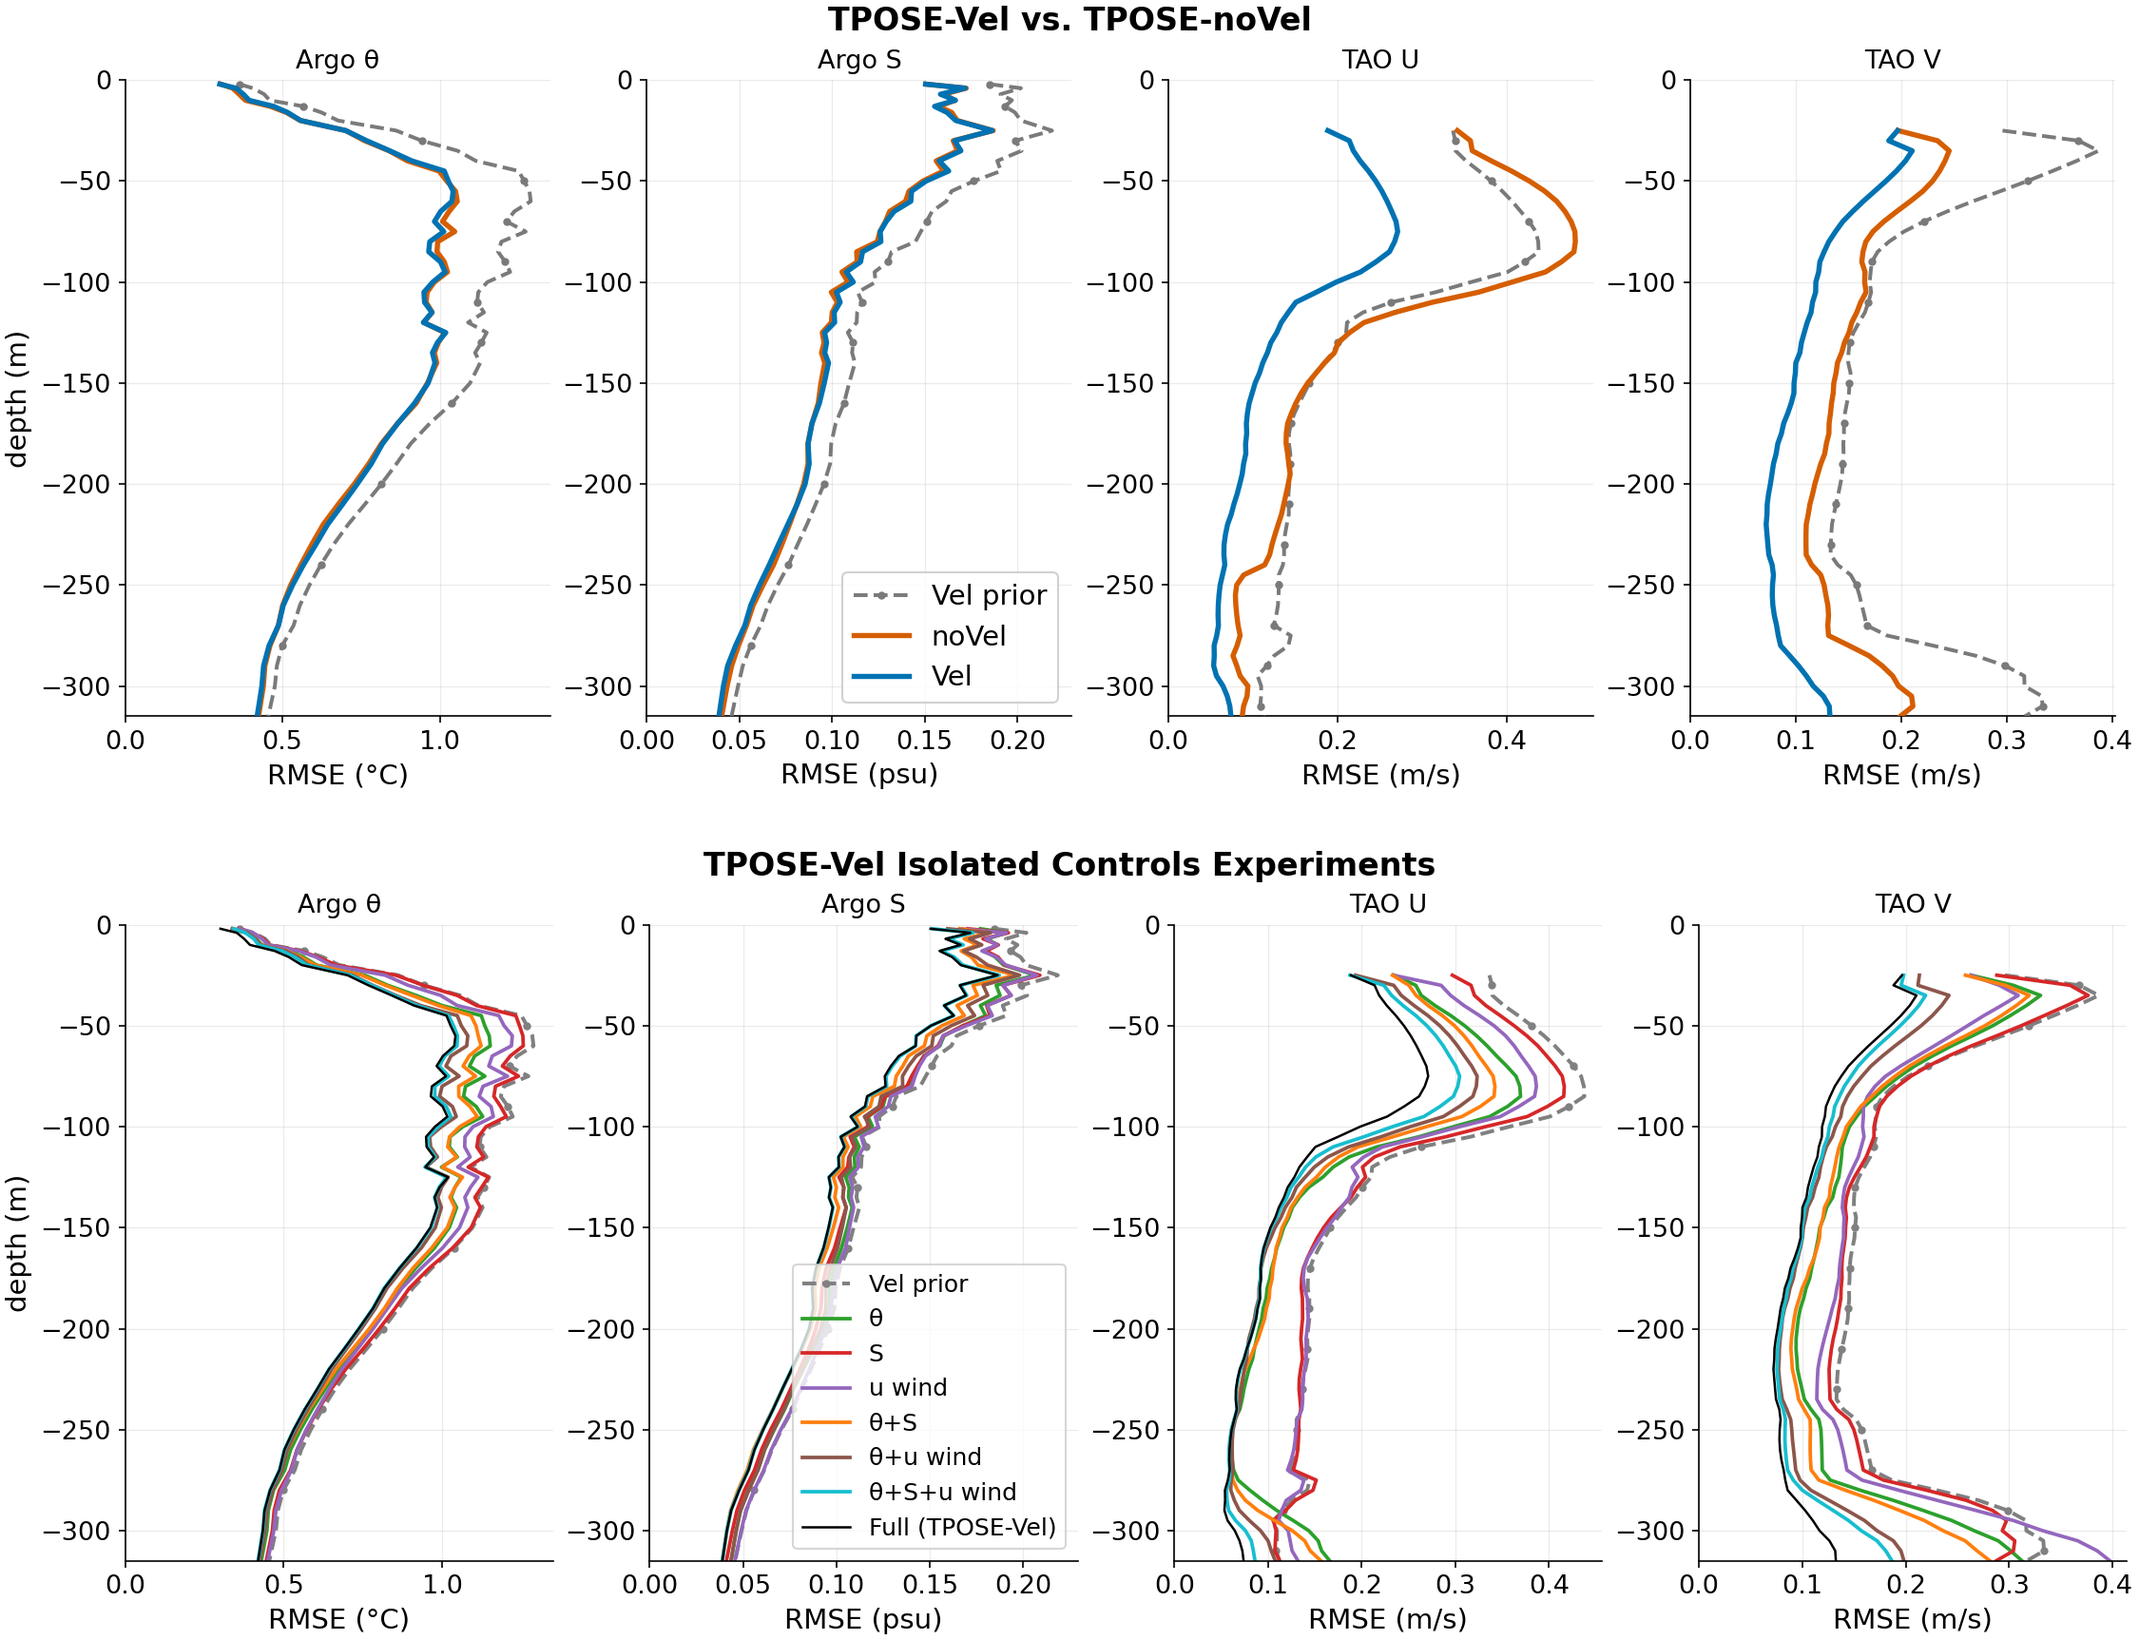
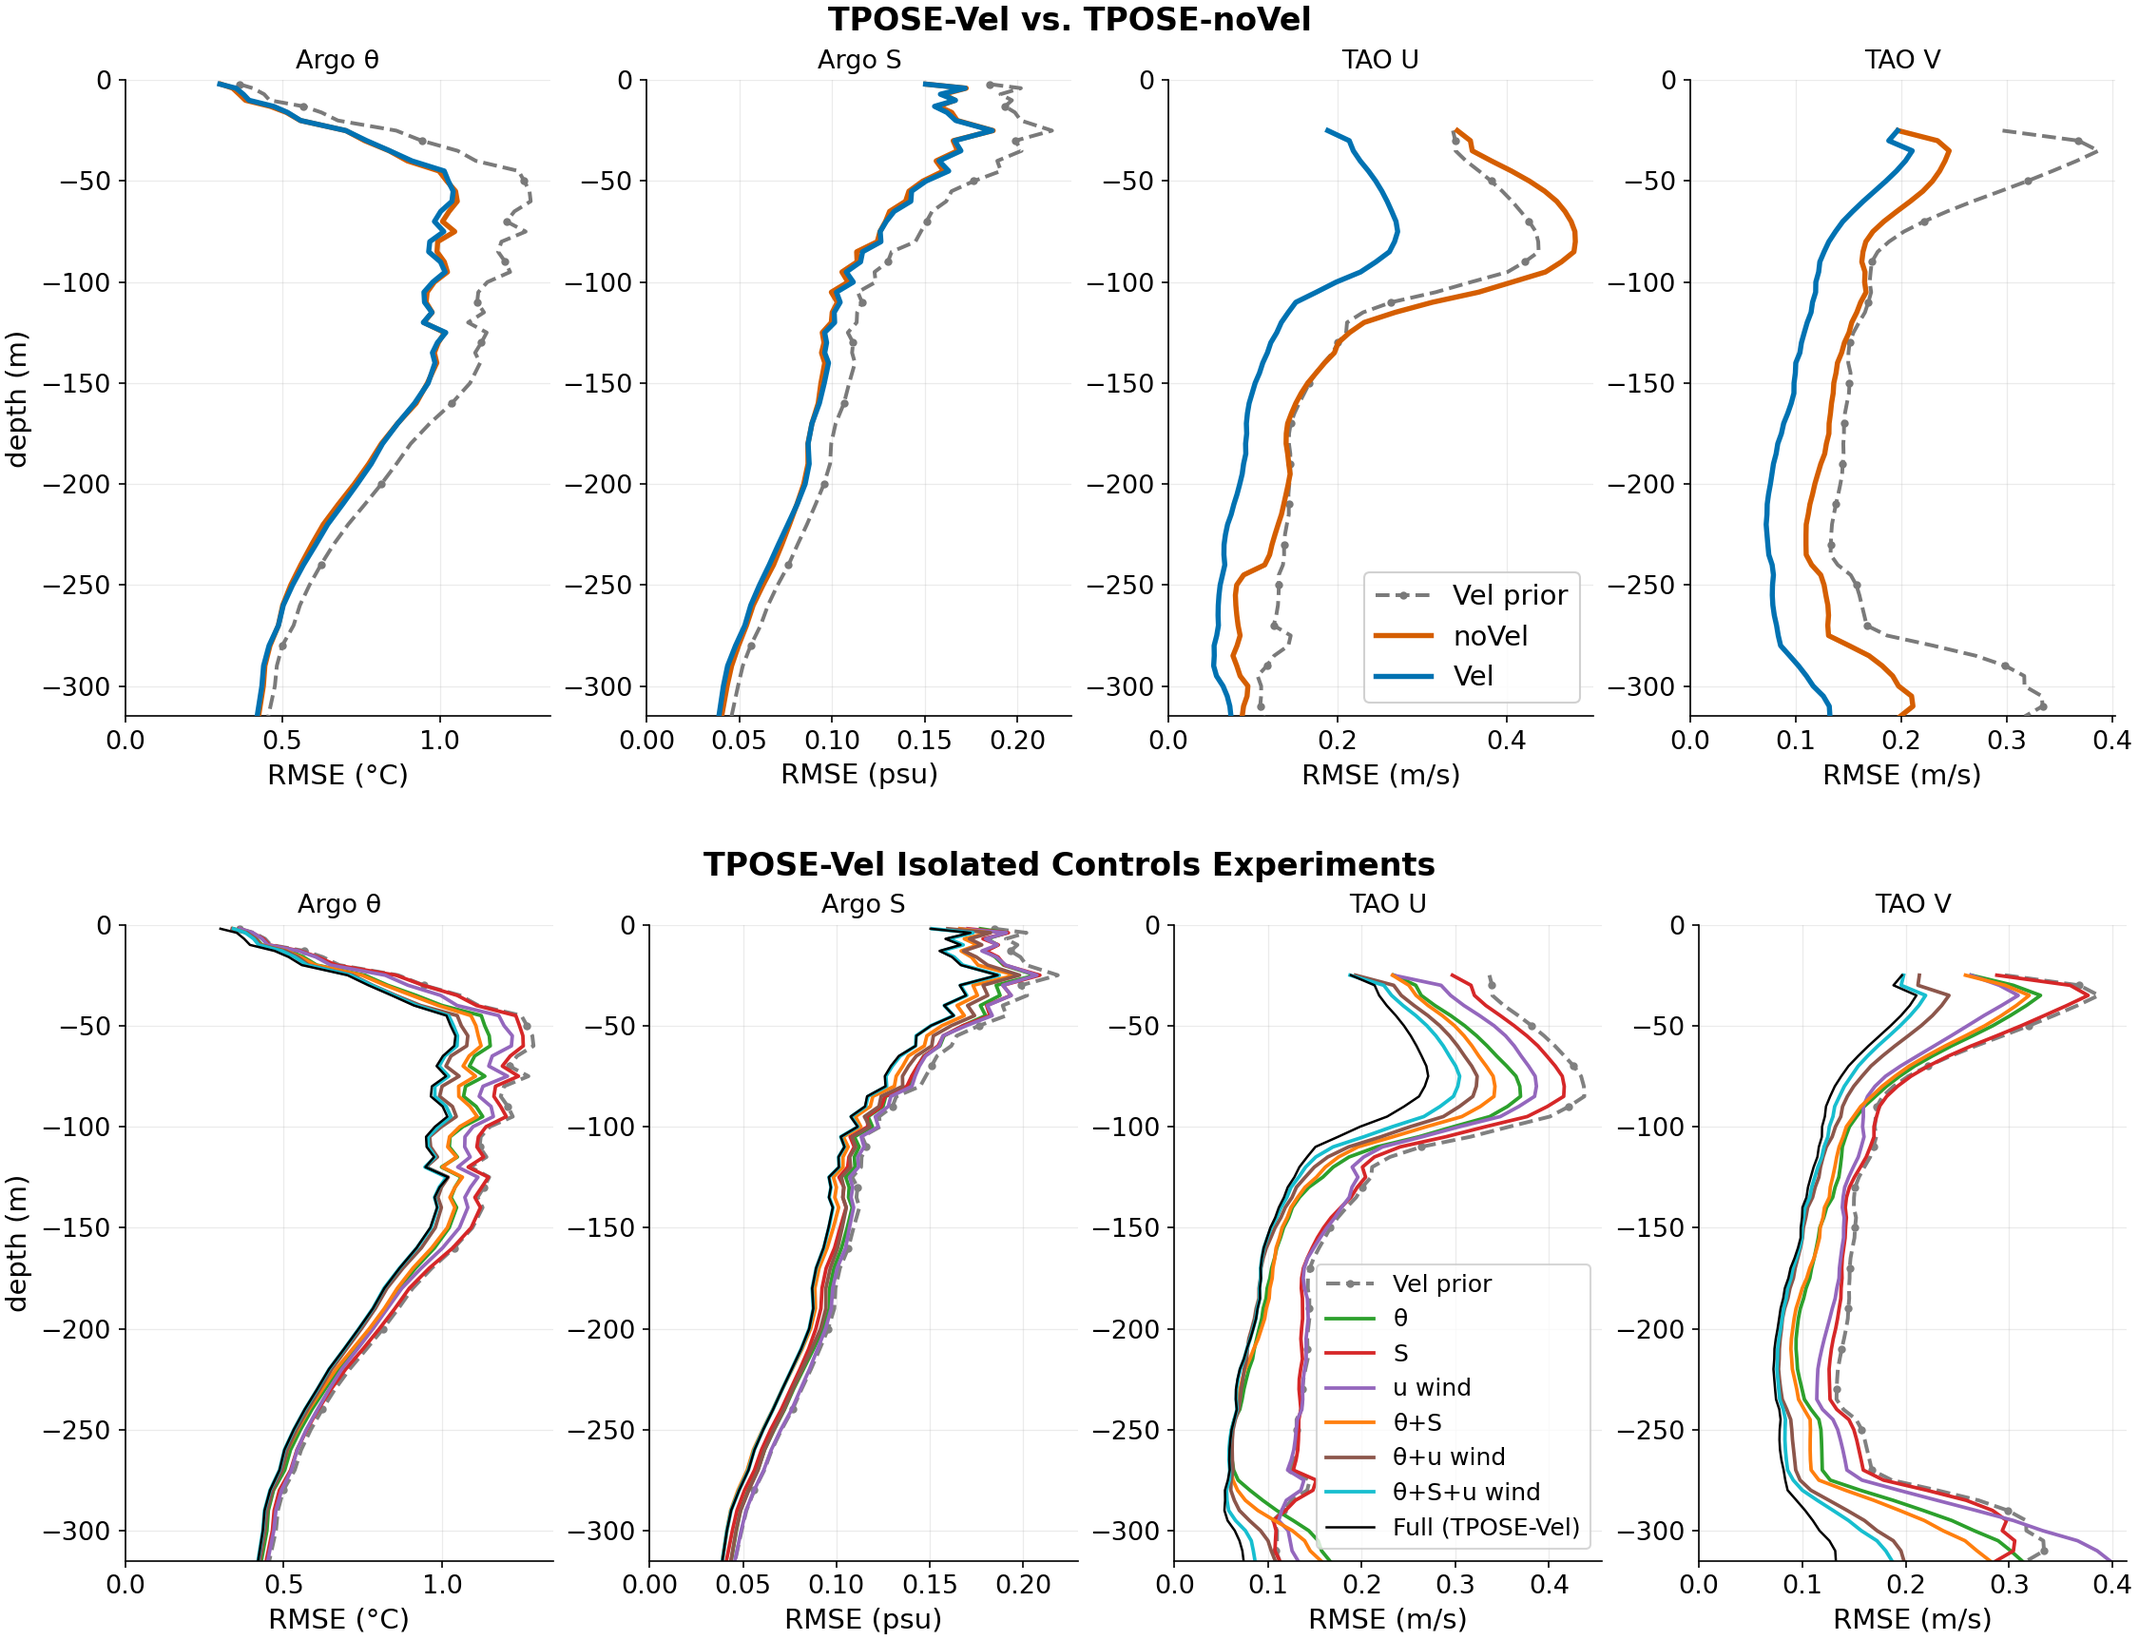
updating with iter 0 from all no vel windows, formatting

diff --git a/profile_windows.py b/profile_windows.py
@@ -1,7 +1,9 @@
 """
 Pooled depth-error profiles across ALL FOUR windows (sep2012, nov2012, jan2013,
-mar2013), restricted to |lat|<=17. prior / noVel / Vel (no TSOnly — it only
-exists for sep2012). RMSE vs depth for Argo T/S and TAO U/V, combining every
+mar2013), restricted to |lat|<=17. Vel prior / noVel prior / noVel / Vel (no
+TSOnly — it only exists for sep2012). Each solution's prior is its own iter0
+(sep2012: noVel iter0 == Vel prior). RMSE vs depth for Argo T/S and TAO U/V,
+combining every
 window's obs into a single average. Caches per-depth SSE/N so re-plot is cheap.
 
 Env: ~/miniforge3/envs/tpose/bin/python.  Run after the misfit recompute.
@@ -15,9 +17,22 @@ import tiw
 import misfit_cost as mc
 
 LAT = mc.LAT_LIMIT
-SOLS = [('prior', '#7a7a7a', 'Vel prior'),
-        ('noVel', '#D55E00', 'noVel'),
-        ('Vel',   '#0072B2', 'Vel')]
+# four series: each full solution + its own no-DA prior (iter0). Priors are dashed,
+# color-paired with their solution (Vel/Vel-prior blue, noVel/noVel-prior orange).
+SOLS = [('prior',       '#0072B2', 'Vel prior'),     # Vel-config iter0
+        ('noVel_prior', '#D55E00', 'noVel prior'),   # noVel iter0
+        ('noVel',       '#D55E00', 'noVel'),
+        ('Vel',         '#0072B2', 'Vel')]
+PRIORS = ('prior', 'noVel_prior')
+MARK = {'prior': 'o', 'noVel_prior': 's'}
+# noVel iter0 per window (the noVel counterpart to the Vel prior). sep2012: noVel
+# iter0 == Vel prior (same run), so it reuses the Vel-prior dir.
+NOVEL_PRIOR = {
+    'sep2012': mc.WINDOWS['sep2012']['runs']['prior'],
+    'nov2012': ('/data/SO3/averdy/TPOSE6/nov2012/diags_iter0', 72, 1200),
+    'jan2013': ('/data/SO6/TPOSE_diags/tpose6/jan2013/diags_iter0', 72, 1200),
+    'mar2013': ('/data/SO6/TPOSE_diags/tpose6/mar2013/diags_iter0', 72, 1200),
+}
 # product -> obs file per year + variables + axis label/limits
 PROD = [
     ('argo', 'T', 'Argo θ', '°C', -500, lambda y: f'{mc._C}/USGO_TP_{y}_PFL_D_w.nc'),
@@ -34,6 +49,13 @@ def compute():
     acc, depth = {}, {}
     for win in mc.WINDOWS:
         state = mc._load(win, 'diag_state')          # prior/noVel/Vel (skips unreadable)
+        sp = NOVEL_PRIOR.get(win)                    # add the noVel prior (iter0)
+        if sp is not None:
+            try:
+                state['noVel_prior'] = tiw.load_run('noVel_prior', ('diag_state',),
+                                                    ref_date=mc.WINDOWS[win]['ref'], spec=sp)
+            except (OSError, PermissionError) as e:
+                print(f'  SKIP {win}/noVel_prior: {type(e).__name__}', flush=True)
         for sol, _, _ in SOLS:
             if sol not in state:
                 continue
@@ -77,9 +99,10 @@ def plot():
         for sol, c, rlab in SOLS:
             sse, nn = d[f'{sol}_{prod}_{v}_sse'], d[f'{sol}_{prod}_{v}_n']
             rmse = np.sqrt(np.where(nn > 0, sse / np.maximum(nn, 1), np.nan))
+            isp = sol in PRIORS
             ax.plot(rmse, depth, color=c, lw=2.4 if sol == 'Vel' else 1.9,
-                    ls='--' if sol == 'prior' else '-', label=rlab,
-                    marker='o' if sol == 'prior' else None, ms=3, markevery=4)
+                    ls='--' if isp else '-', label=rlab,
+                    marker=MARK.get(sol) if isp else None, ms=3, markevery=4)
         ntot = int(d[f'Vel_{prod}_{v}_n'].max())
         ax.set_title(f'{label}  (n≈{ntot})', fontsize=13, fontweight='bold')
         ax.set_xlabel(f'RMSE ({unit})'); ax.set_ylim(zlim, 0); ax.set_xlim(left=0)
@@ -87,7 +110,7 @@ def plot():
     axs[0].set_ylabel('depth (m)', fontsize=12)
     axs[0].legend(fontsize=10, loc='lower right', framealpha=0.9)
     fig.suptitle('Depth error profiles pooled over all 4 windows, |lat|≤17°  '
-                 '(prior → noVel → Vel; TAO velocity is the discriminator)', fontsize=13)
+                 '(Vel & noVel priors dashed; TAO velocity is the discriminator)', fontsize=13)
     fig.tight_layout(rect=[0, 0, 1, 0.94])
     out = 'figs/comparison/error_profiles_depth_17_allwindows.png'
     os.makedirs(os.path.dirname(out), exist_ok=True)

diff --git a/misfit_cost.py b/misfit_cost.py
@@ -342,40 +342,50 @@ def table(df=None):
     print('\nwrote', out)
 
 
+def _cell_bars(ax, cells, color, getval):
+    """Grouped bars (one group per PLOT_ROLE) for the consolidated cells on `ax`."""
+    x, bw = np.arange(len(cells)), 0.38
+    for j, role in enumerate(PLOT_ROLES):
+        off = (j - (len(PLOT_ROLES) - 1) / 2) * bw
+        ax.bar(x + off, [getval(role, c) for c in cells], bw,
+               color=[color[c] for c in cells], hatch=HATCH[role],
+               edgecolor='k', linewidth=0.4)
+    ax.axhline(1.0, ls='--', c='0.4', lw=1)
+    ax.set_ylabel('Normalized Cost', fontsize=14)
+    ax.set_xticks(x); ax.set_xticklabels(cells, rotation=55, ha='right', fontsize=12)
+    ax.tick_params(axis='y', labelsize=12)
+    ax.margins(x=0.01)
+
+
 def plot(df=None, out=FIG):
     if df is None:
         df = pd.read_csv(CSV)
     g = _grouped(df)
     color = {c: GROUP_COLOR[CELL_CAT[c]] for c in CELL_ORDER}
-    gi = g.set_index(['window', 'solution', 'cell'])
+    gi = g.set_index(['window', 'solution', 'cell'])['chi2']
     cells = [c for c in CELL_ORDER if c in set(g['cell'])]
-    x = np.arange(len(cells))
-    bw = 0.38
     wins = [w for w in WINDOWS if w in set(df['window'])]
-    fig, axes = plt.subplots(2, 2, figsize=(14, 8), sharex=True, sharey=True)
-    for ax, win in zip(axes.ravel(), wins):
-        for j, role in enumerate(PLOT_ROLES):
-            off = (j - (len(PLOT_ROLES) - 1) / 2) * bw
-            vals = [gi['chi2'].get((win, role, c), np.nan) for c in cells]
-            ax.bar(x + off, vals, bw, color=[color[c] for c in cells],
-                   hatch=HATCH[role], edgecolor='k', linewidth=0.4)
-        ax.axhline(1.0, ls='--', c='0.4', lw=1)
+    # all-windows aggregate: obs-count-weighted pooled normalized cost = Σ w(o-m)² / Σ N
+    pooled = g.groupby(['solution', 'cell']).agg(sw=('sw', 'sum'), nobs=('nobs', 'sum'))
+    pi = (pooled['sw'] / pooled['nobs'])
+    # layout: pooled panel centered on top (row 0), the 4 windows in 2x2 below
+    fig = plt.figure(figsize=(14, 11.5))
+    gs = fig.add_gridspec(3, 4, hspace=0.62, wspace=0.3)
+    ax_agg = fig.add_subplot(gs[0, 1:3])
+    _cell_bars(ax_agg, cells, color, lambda role, c: pi.get((role, c), np.nan))
+    ax_agg.set_title('all windows pooled', fontweight='bold')
+    for (r, c0, c1), win in zip([(1, 0, 2), (1, 2, 4), (2, 0, 2), (2, 2, 4)], wins):
+        ax = fig.add_subplot(gs[r, c0:c1], sharey=ax_agg)
+        _cell_bars(ax, cells, color, lambda role, c, win=win: gi.get((win, role, c), np.nan))
         ax.set_title(win)
-        ax.set_ylabel('normalized cost')
-        ax.set_xticks(x)
-        ax.set_xticklabels(cells, rotation=55, ha='right', fontsize=8)
-        ax.margins(x=0.01)
-    for ax in axes.ravel()[len(wins):]:
-        ax.set_visible(False)
     cats = {CELL_CAT[c] for c in cells}        # only legend the categories actually shown
     grp = [Patch(facecolor=c, edgecolor='k', label=gname)
            for gname, c in GROUP_COLOR.items() if gname in cats]
     sol = [Patch(facecolor='0.85', edgecolor='k', hatch=HATCH[r], label=r) for r in PLOT_ROLES]
-    fig.legend(handles=grp + sol, ncol=10, loc='upper center', frameon=False,
-               bbox_to_anchor=(0.5, 1.03))
-    fig.suptitle('Model$-$data misfit (normalized cost per observation; dashed = fit to stated error)',
-                 y=1.07)
-    fig.tight_layout()
+    lax = fig.add_subplot(gs[0, 0]); lax.axis('off')       # legends fill the empty top corners
+    lax.legend(handles=grp, loc='center', frameon=False, fontsize=13)
+    rax = fig.add_subplot(gs[0, 3]); rax.axis('off')
+    rax.legend(handles=sol, loc='center', frameon=False, fontsize=13)
     os.makedirs(os.path.dirname(out), exist_ok=True)
     fig.savefig(out, dpi=150, bbox_inches='tight')
     print('wrote', out, flush=True)

diff --git a/summary_figs.py b/summary_figs.py
@@ -71,7 +71,7 @@ def fig_error_profiles():
     print('wrote error_profiles_depth.png')
 
 
-def fig_error_and_decomp_profiles():
+def fig_error_and_decomp_profiles(prior_label='Vel prior', out='error_and_decomp_profiles.png'):
     fig = plt.figure(figsize=(15, 11.5), constrained_layout=True)
     sfigs = fig.subfigures(2, 1, hspace=0.06)
     top, bot = sfigs[0].subplots(1, 4), sfigs[1].subplots(1, 4)
@@ -86,14 +86,14 @@ def fig_error_and_decomp_profiles():
             dashed = run == 'prior'
             ax.plot(tiw.rmse_profile(obs, m, w), depth, color=color,
                     lw=1.9 if dashed else 2.6,
-                    ls='--' if dashed else '-', label=rlabel,
+                    ls='--' if dashed else '-', label=prior_label if dashed else rlabel,
                     marker='o' if dashed else None, ms=3, markevery=4, zorder=3)
         ax.set_title(label, fontsize=13)
-        ax.set_xlabel(f'RMSE ({unit})'); ax.set_ylim(-315, 0); ax.set_xlim(left=0)
+        ax.set_xlabel(f'RMSE ({unit})', fontsize=14); ax.set_ylim(-315, 0); ax.set_xlim(left=0)
         ax.grid(alpha=0.25, lw=0.6); ax.spines[['top', 'right']].set_visible(False)
-        ax.tick_params(labelsize=10)
-    top[0].set_ylabel('depth (m)', fontsize=12)
-    top[1].legend(fontsize=12, loc='lower right', frameon=True, framealpha=0.9)
+        ax.tick_params(labelsize=13)
+    top[0].set_ylabel('depth (m)', fontsize=14)
+    top[2].legend(fontsize=14, loc='lower right', frameon=True, framealpha=0.9)   # panel 3 (TAO U), matches bottom row
     sfigs[0].suptitle('TPOSE-Vel vs. TPOSE-noVel', fontsize=16, fontweight='bold')
     # bottom row: single-control & combo decomposition vs full solution
     for ax, (prod, var, label, unit, _) in zip(bot, PROF):
@@ -113,15 +113,15 @@ def fig_error_and_decomp_profiles():
             ax.plot(tiw.rmse_profile(o, np.load(fp)[latok], w), depth,
                     color=color, label=lbl or mf._dlabel(run), **style)
         ax.set_title(label, fontsize=13)
-        ax.set_xlabel(f'RMSE ({unit})'); ax.set_ylim(-315, 0)
+        ax.set_xlabel(f'RMSE ({unit})', fontsize=14); ax.set_ylim(-315, 0)
         ax.set_xlim(left=0); ax.grid(alpha=0.25, lw=0.6)
-        ax.spines[['top', 'right']].set_visible(False); ax.tick_params(labelsize=10)
-    bot[0].set_ylabel('depth (m)', fontsize=12)
-    bot[1].legend(fontsize=10, loc='lower right')
+        ax.spines[['top', 'right']].set_visible(False); ax.tick_params(labelsize=13)
+    bot[0].set_ylabel('depth (m)', fontsize=14)
+    bot[2].legend(fontsize=12, loc='lower right')   # panel 3 (TAO U); clears the Argo-S data
     sfigs[1].suptitle('TPOSE-Vel Isolated Controls Experiments', fontsize=16, fontweight='bold')
     os.makedirs(OUT, exist_ok=True)
-    fig.savefig(f'{OUT}/error_and_decomp_profiles.png', dpi=150); plt.close(fig)
-    print('wrote error_and_decomp_profiles.png')
+    fig.savefig(f'{OUT}/{out}', dpi=150); plt.close(fig)
+    print('wrote', out)
 
 
 # ============================ (2) SST skill decomposition map =====================
@@ -460,6 +460,7 @@ if __name__ == '__main__':
     os.makedirs(OUT, exist_ok=True)
     fig_error_profiles()
     fig_error_and_decomp_profiles()
+    fig_error_and_decomp_profiles(prior_label='prior', out='error_and_decomp_profiles_sep2012.png')
     fig_skill_maps()
     fig_tiw_hovmoller()
     fig_euc_section()

diff --git a/anova.py b/anova.py
@@ -623,12 +623,12 @@ def tiw_phase_amp(channel):
 #   coherence(t) = |<ẑ_Vel,z_run>| / ||z_run||  in [0,1]  (how wave-like/aligned)
 # Resolves the hypothesis in time: θ should lock phase early; u wind should drive
 # the amplitude growth; θ+u wind should amplify an already-correctly-phased wave.
-PA_RUNS = [('prior', '0.5', 'prior (no DA)'), ('noVel', 'tab:orange', 'TPOSE6-noVel'),
+PA_RUNS = [('prior', '0.5', 'Vel prior'), ('noVel', 'tab:orange', 'noVel'),
            ('initialT', 'tab:green', 'θ (xx_theta)'),
            ('zonalWind', 'tab:purple', 'u wind (xx_uwind)'),
            ('initialT_uwind', 'tab:brown', 'θ+u wind'),
            ('top4', 'magenta', 'θ+S+u wind+sw'),
-           ('TSOnly', 'tab:cyan', 'TAO T/S only'), ('Vel', 'k', 'Full (TPOSE6-Vel)')]
+           ('TSOnly', 'tab:cyan', 'TAO T/S only'), ('Vel', 'k', 'Full (TPOSE-Vel)')]
 
 
 def tiw_pa_timeseries(channel, ref='Vel'):
@@ -682,8 +682,8 @@ VS_OBS_RUNS = ['prior', 'noVel', 'initialT', 'initialS', 'zonalWind', 'swdown',
 
 
 def _run_label(r):
-    return {'prior': 'prior (no DA)', 'noVel': 'TPOSE6-noVel',
-            'TSOnly': 'TAO T/S only', 'Vel': 'Full (Vel)'}.get(r) or tiw.CONTROL_XX.get(r, r)
+    return {'prior': 'Vel prior', 'noVel': 'noVel',
+            'TSOnly': 'TAO T/S only', 'Vel': 'Full (TPOSE-Vel)'}.get(r) or tiw.CONTROL_XX.get(r, r)
 
 
 def _skill_bars(df, suptitle, fname, coh_title):

diff --git a/compare_families.py b/compare_families.py
@@ -18,9 +18,9 @@ HERE = os.path.dirname(os.path.abspath(__file__))
 OUT = f'{HERE}/figs/comparison'
 CACHE = tiw.CACHE
 # family -> (anchor run in metrics.csv, label, color)
-FAM = {'novel':  ('noVel',  'noVel (noTAO)',   'tab:orange'),
-       'tsonly': ('TSOnly', 'TSOnly (TAO T/S)', 'tab:green'),
-       'vel':    ('Vel',    'Vel (TAO T/S/U/V)', 'tab:blue')}
+FAM = {'novel':  ('noVel',  'noVel',   'tab:orange'),
+       'tsonly': ('TSOnly', 'TSOnly', 'tab:green'),
+       'vel':    ('Vel',    'Vel', 'tab:blue')}
 PRODS = [('argo_T', 'Argo T'), ('argo_S', 'Argo S'), ('tao_U', 'TAO U'),
          ('tao_V', 'TAO V'), ('sst', 'SST'), ('ssh', 'SSH')]
 MAINS = ['θ', 'S', 'u wind', 'sw']
